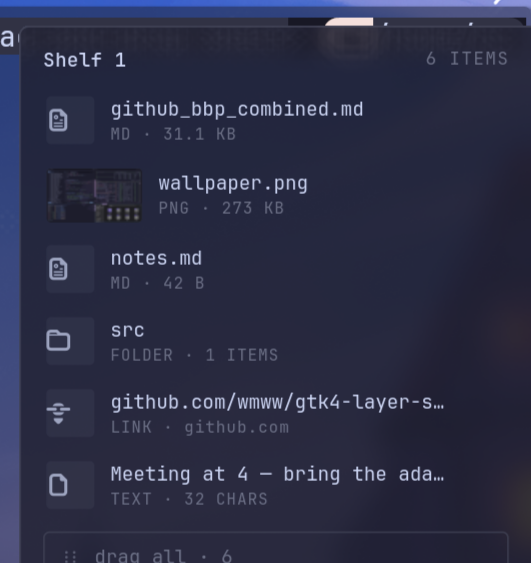
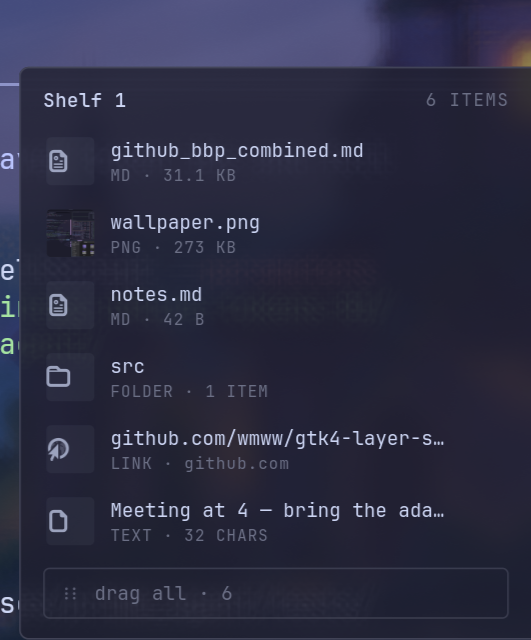
drawer: open at pointer, square thumbnails, shelf add verb, README screenshot

diff --git a/src/shelf/drawer.py b/src/shelf/drawer.py
@@ -37,7 +37,8 @@ def meta_for(item: Item) -> str:
         path = item.path or ""
         if os.path.isdir(path):
             try:
-                return f"FOLDER · {len(os.listdir(path))} ITEMS"
+                n = len(os.listdir(path))
+                return f"FOLDER · {n} ITEM" + ("" if n == 1 else "S")
             except OSError:
                 return "FOLDER"
         ext = os.path.splitext(path)[1].lstrip(".").upper() or "FILE"
@@ -88,9 +89,10 @@ class ItemRow(Gtk.ListBoxRow):
         box.add_css_class("item")
         self.set_child(box)
 
-        self.thumb = Gtk.Box(halign=Gtk.Align.CENTER, valign=Gtk.Align.CENTER)
+        self.thumb = Gtk.Box(halign=Gtk.Align.CENTER, valign=Gtk.Align.CENTER, hexpand=False)
         self.thumb.add_css_class("thumb")
         self.thumb.set_size_request(THUMB, THUMB)
+        self.thumb.set_overflow(Gtk.Overflow.HIDDEN)
         box.append(self.thumb)
 
         labels = Gtk.Box(orientation=Gtk.Orientation.VERTICAL, hexpand=True, valign=Gtk.Align.CENTER, spacing=1)
@@ -120,7 +122,7 @@ class ItemRow(Gtk.ListBoxRow):
 
     def _set_icon(self) -> None:
         if self.item.kind == URL:
-            gicon = Gio.ThemedIcon.new_with_default_fallbacks("insert-link-symbolic")
+            gicon = Gio.ThemedIcon.new_from_names(["web-browser-symbolic", "insert-link-symbolic", "emblem-symbolic-link"])
         elif self.item.kind == TEXT:
             gicon = Gio.ThemedIcon.new_with_default_fallbacks("text-x-generic-symbolic")
         elif os.path.isdir(self.item.path or ""):
@@ -141,20 +143,24 @@ class ItemRow(Gtk.ListBoxRow):
                 pixbuf = GdkPixbuf.Pixbuf.new_from_stream_finish(res)
             except GLib.Error:
                 return
-            picture = Gtk.Picture.new_for_paintable(Gdk.Texture.new_for_pixbuf(pixbuf))
-            picture.set_content_fit(Gtk.ContentFit.COVER)
-            picture.set_size_request(THUMB, THUMB)
+            w, h = pixbuf.get_width(), pixbuf.get_height()
+            side = min(w, h)
+            square = pixbuf.new_subpixbuf((w - side) // 2, (h - side) // 2, side, side)
+            image = Gtk.Image.new_from_paintable(Gdk.Texture.new_for_pixbuf(square))
+            image.set_pixel_size(THUMB)
+            image.add_css_class("picture")
             child = self.thumb.get_first_child()
             if child:
                 self.thumb.remove(child)
-            self.thumb.append(picture)
+            self.thumb.append(image)
 
         def on_stream(src, res):
             try:
                 stream = src.read_finish(res)
             except GLib.Error:
                 return
-            GdkPixbuf.Pixbuf.new_from_stream_at_scale_async(stream, px, px, True, None, on_pixbuf)
+            # Scale so the shorter side is the thumbnail size, then crop the centre square.
+            GdkPixbuf.Pixbuf.new_from_stream_at_scale_async(stream, px * 4, px, True, None, on_pixbuf)
 
         gfile.read_async(GLib.PRIORITY_LOW, None, on_stream)
 
@@ -368,6 +374,7 @@ class Drawer(Gtk.Window):
         surface_h = self.get_height()
         _, panel_h, _, _ = self.panel.measure(Gtk.Orientation.VERTICAL, self.cfg.width)
         top = int(min(max(y - panel_h / 2, EDGE_PAD), max(EDGE_PAD, surface_h - panel_h - EDGE_PAD)))
+        log("place y=", y, "panel_h=", panel_h, "surface_h=", surface_h, "top=", top)
         self.revealer.set_valign(Gtk.Align.START)
         self.revealer.set_margin_top(top)
 

diff --git a/src/shelf/style.py b/src/shelf/style.py
@@ -130,8 +130,9 @@ def build_css(cfg: Config) -> str:
         background-color: {rgba(p.fg, 0.05)};
         color: {rgba(p.fg, 0.7)};
     }}
-    .thumb picture {{
+    .thumb image.picture {{
         border-radius: 3px;
+        -gtk-icon-style: regular;
     }}
     .name {{
         color: {p.fg};
